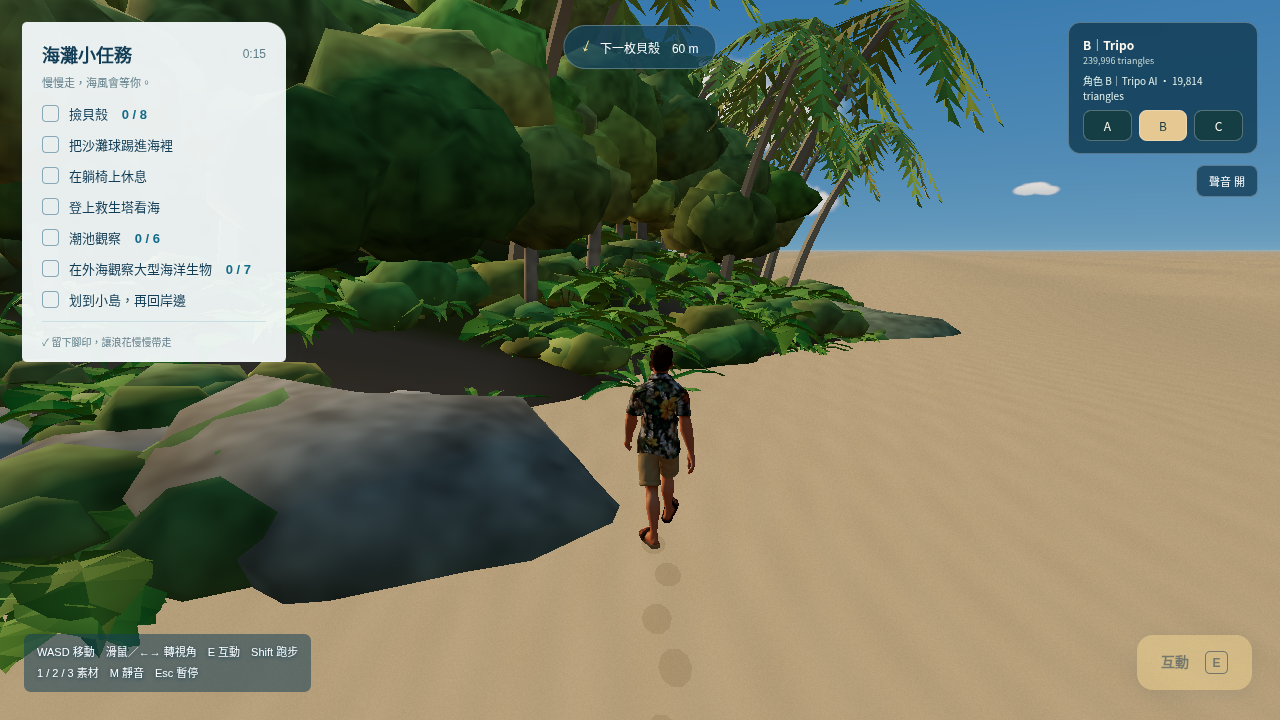
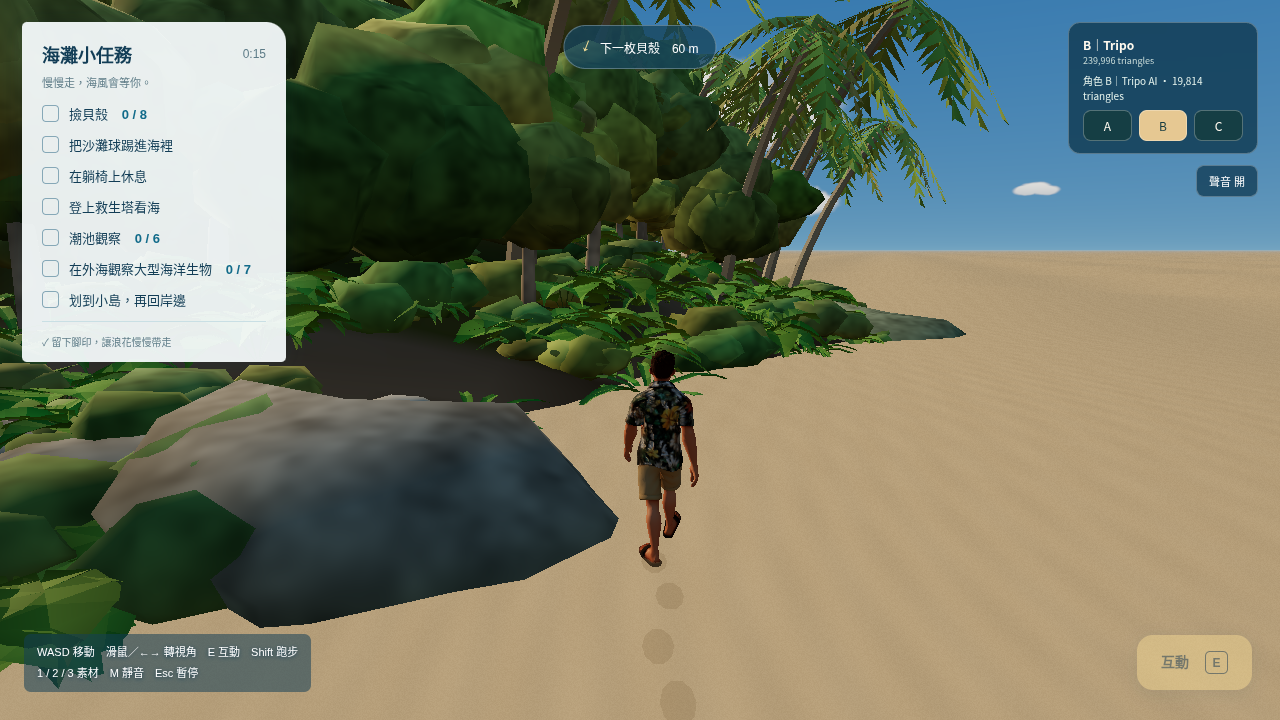
鏡頭跑步時往前看、瞬移直接切；跳躍落地揚沙（水邊改水花）加膝蓋緩衝；踢球揚沙、球被踢扁再彈回；任務數字增加或打勾時彈一下；修正乾沙上誤判為水中（涉水漣漪、落地）
Claude-Session: https://claude.ai/code/session_01USRpqyJ3nNu4mbR3gC6di4

diff --git a/src/game/index.js b/src/game/index.js
@@ -1,6 +1,6 @@
 import * as T from 'three';
 import {groundHeight,shore} from '../terrain.js';
-import {sampleWater,surfaceHeight} from '../water.js';
+import {sampleWater,surfaceHeight,swashReach} from '../water.js';
 import {propRoot} from '../props.js';
 import {createObjects,fallbackBoat} from './objects.js';
 import {createBall} from './physics.js';
@@ -22,6 +22,7 @@ export async function createGame({scene,camera,renderer,water,config,explore:e,a
  // The old node was replaced, so transfer its behavior through an explicit adapter.
  const ui=document.createElement('div');ui.id='game';ui.innerHTML=`<section class="quest-book" aria-label="任務清單"><header><h2>海灘小任務</h2><span id="game-clock">0:00</span></header><p class="quest-intro">慢慢走，海風會等你。</p><ul><li data-quest="shells"><i></i><span>撿貝殼 <b id="shell-count">0 / 8</b></span></li><li data-quest="ball"><i></i><span>把沙灘球踢進海裡</span></li><li data-quest="lounger"><i></i><span>在躺椅上休息</span></li><li data-quest="tower"><i></i><span>登上救生塔看海</span></li><li data-quest="tidepool"><i></i><span>潮池觀察 <b id="tidepool-hud">0 / 6</b></span></li><li data-quest="opensea"><i></i><span>在外海觀察大型海洋生物 <b id="lagoon-hud">0 / 7</b></span></li><li data-quest="boat"><i></i><span>划到小島，再回岸邊</span></li></ul><p id="footnote">額外的小紀念：在沙上留下腳印</p></section><div id="navigation"><span id="nav-arrow">↑</span><span id="nav-text"></span></div><div id="game-toast" role="status" aria-live="polite"></div><div id="target-prompt"><kbd>E</kbd><span></span></div><button id="interact" disabled>互動 <kbd>E</kbd></button><div class="game-controls">WASD 移動　滑鼠／←→ 轉視角　E 互動　Shift 跑步<br>1 / 2 / 3 素材　M 靜音　Esc 暫停</div><button id="game-audio" aria-label="切換聲音">聲音 開</button><div id="game-fade"></div><section id="complete" hidden role="dialog" aria-modal="true" aria-labelledby="complete-title"><div><span class="postmark" aria-hidden="true">☀</span><p>海風、浪花，和你的小小足跡</p><h1 id="complete-title">今天的海灘，收集完成。</h1><p>8 枚貝殼 · 6 種潮池生物 · 7 種海洋生物</p><strong id="finish-time"></strong><p id="finish-bonus"></p><button id="replay">再玩一次</button><a href="/">回到首頁</a></div></section>`;document.body.append(ui);
  const objects=createObjects(scene,water.material.uniforms.time,config);
+ let landedAt=-100,landSize=1,wasAirborne=false,airborneSince=0,kickedAt=-100,lastTime=0;
  const plant=[0,1].map(()=>({down:true,still:0,px:NaN,pz:NaN,lx:1e9,lz:1e9}));let plantRig=null,footBase=Infinity;
  const state={shells:0,ball:false,lounger:false,tower:false,tidepool:false,observed:0,opensea:false,spotted:0,boat:false,island:false,footprints:0};
  const pool=createTidePool(scene);
@@ -53,7 +54,8 @@ export async function createGame({scene,camera,renderer,water,config,explore:e,a
  // World-space contacts for the character's IK layer in the current mode.
  function poseIK(){
   if(mode==='walk'&&pickup&&pickup.age>=0)return pickupIK();
-  if(mode==='walk')return e.airborne?null:{ground:groundHeight,spine:{lean:walkLean}};
+  // Landing from a jump: the knees take it (hips dip about 9 cm within 0.07 s, then ease back up).
+  if(mode==='walk'){if(e.airborne)return null;const age=lastTime-landedAt,dip=age<0||age>.6?0:age<.07?age/.07:Math.exp(-(age-.07)*9);return {ground:groundHeight,spine:{lean:walkLean+.12*dip},pelvis:-.09*dip*landSize};}
   if(mode==='tower'&&anchors.lifeguard.ladder?.kind==='stairs')return {ground:towerSurface};
   if(mode==='tower'&&anchors.lifeguard.ladder&&towerT>0&&towerT<towerTotal())return {hands:climb.hands,handWeight:climb.handWeight,feet:climb.feet,footWeight:climb.footWeight,handAim:climb.aim,curl:climb.curl,pelvis:-.3*climb.duck,spine:{lean:climb.lean+.4*climb.duck}};
   if(mode==='boat'&&launch.active)return launch.board<0?{ground:groundHeight,hands:launch.hands,curl:[1,1],spine:{lean:launch.lean},pelvis:-.12*launch.lean/.6}:{hands:launch.hands,feet:launch.feet,curl:[1,1],spine:{lean:launch.lean},pelvis:launch.pelvis,handAim:launch.board>3?row.aim:undefined};
@@ -371,7 +373,9 @@ export async function createGame({scene,camera,renderer,water,config,explore:e,a
  syncAnchors();
  const ball=createBall(objects.ball,()=>e.colliders,()=>{if(!state.ball){state.ball=true;toast('球進海裡了！讓它跟著浪花漂吧。');}},()=>e.sfx('splash'));
  function toast(message){$('#game-toast').textContent=message;toastUntil=time()+3.5;}
- function renderHud(){const signature=`${state.shells},${state.ball},${state.lounger},${state.tower},${state.observed},${state.spotted},${state.boat},${state.footprints>0},${Math.floor(elapsed)}`;if(signature===lastHud)return;lastHud=signature;$('#shell-count').textContent=`${state.shells} / 8`;$('#tidepool-hud').textContent=`${state.observed} / 6`;$('#lagoon-hud').textContent=`${state.spotted} / 7`;for(const key of ['shells','ball','lounger','tower','tidepool','opensea','boat']){const done=key==='shells'?state.shells===8:state[key],li=$(`[data-quest=${key}]`);li.classList.toggle('done',done);li.querySelector('i').textContent=done?'✓':'';li.setAttribute('aria-label',`${li.textContent}，${done?'已完成':'未完成'}`);}$('#game-clock').textContent=formatTime(elapsed);if(state.footprints)$('#footnote').textContent='✓ 留下腳印，讓浪花慢慢帶走';}
+ // A count that went up or a quest just ticked pops (grows past its size and settles), so the change is seen.
+ const hudSeen={};const pop=el=>{el.classList.remove('pop');void el.offsetWidth;el.classList.add('pop');};
+ function renderHud(){const signature=`${state.shells},${state.ball},${state.lounger},${state.tower},${state.observed},${state.spotted},${state.boat},${state.footprints>0},${Math.floor(elapsed)}`;if(signature===lastHud)return;lastHud=signature;$('#shell-count').textContent=`${state.shells} / 8`;$('#tidepool-hud').textContent=`${state.observed} / 6`;$('#lagoon-hud').textContent=`${state.spotted} / 7`;for(const [id,n] of [['shell-count',state.shells],['tidepool-hud',state.observed],['lagoon-hud',state.spotted]]){if(n>(hudSeen[id]??n))pop($('#'+id));hudSeen[id]=n;}for(const key of ['shells','ball','lounger','tower','tidepool','opensea','boat']){const done=key==='shells'?state.shells===8:state[key],li=$(`[data-quest=${key}]`);li.classList.toggle('done',done);li.querySelector('i').textContent=done?'✓':'';if(done&&hudSeen[key]===false)pop(li.querySelector('i'));hudSeen[key]=done;li.setAttribute('aria-label',`${li.textContent}，${done?'已完成':'未完成'}`);}$('#game-clock').textContent=formatTime(elapsed);if(state.footprints)$('#footnote').textContent='✓ 留下腳印，讓浪花慢慢帶走';}
  function formatTime(seconds){return `${Math.floor(seconds/60)}:${String(Math.floor(seconds%60)).padStart(2,'0')}`;}
  function begin(){running=true;document.body.classList.add('game-playing');$('#start').hidden=true;$('#begin').textContent='繼續玩';welcome.querySelector('h1').textContent='海灘小任務';renderHud();}
  // `start` is exported by Explore so the same gesture enables sound and controls.
@@ -434,7 +438,7 @@ export async function createGame({scene,camera,renderer,water,config,explore:e,a
   if(near.kind==='leave'){leave();return;}
   if(near.kind==='opensea'){const c=near.item;if(sea.observe(c.i)){const count=sea.seen.length;state.spotted=count;e.sfx('pickup');toast(count===7?'7 種海洋生物都觀察到了！划回岸邊吧。':`觀察到${c.spec.name}：${c.spec.note}（${count} / 7）`);if(count===7)state.opensea=true;renderHud();}return;}
   if(near.kind==='shell'&&!near.item.collected)startPickup(near.item);
-  if(near.kind==='ball'){ball.kick(e.player);character.trigger('kick');e.sfx('kick');}
+  if(near.kind==='ball'){ball.kick(e.player);character.trigger('kick');e.sfx('kick');kickedAt=lastTime;const b=objects.ball.position,n=Math.hypot(b.x-e.player.x,b.z-e.player.z)||1,dx=(b.x-e.player.x)/n,dz=(b.z-e.player.z)/n,fx=e.player.x+dx*.45,fz=e.player.z+dz*.45;if(groundHeight(fx,fz)>.015)objects.puff(fx,fz,lastTime,.7,dx,dz);}
   if(near.kind==='umbrella')enter('rest');if(near.kind==='lifeguard')enter('tower');if(near.kind==='boat')enter('boat');if(near.kind==='tidepool')enter('tidepool');renderHud();
  }
  addEventListener('keydown',event=>{if(event.code==='KeyE'&&!event.repeat){event.preventDefault();interact();}});$('#interact').onclick=interact;$('#game-audio').onclick=()=>e.mute();
@@ -606,7 +610,12 @@ export async function createGame({scene,camera,renderer,water,config,explore:e,a
   sea.update(t);splash.update(t);wake.update(t);wake.rings(t,water.material.uniforms.wakeRings.value);if(!vessel.visible)wake.ring.visible=false;
   if(e.group!==currentGroup&&!e.busy){currentGroup=e.group;if(mode==='rest')e.player.copy(restPoint());else if(mode==='tower')e.player.copy(anchors.lifeguard.surface.point);}
   document.body.classList.toggle('game-paused',running&&!e.active&&!completed&&mode!=='tidepool');
-  const active=running&&e.active&&!e.busy&&!completed,simDt=active?dt:0;
+  const active=running&&e.active&&!e.busy&&!completed,simDt=active?dt:0;lastTime=t;
+  // A landing after a real jump (over 0.15 s in the air) kicks up sand, or splashes in the water; longer falls more.
+  if(simDt>0&&mode==='walk'){if(e.airborne&&!wasAirborne)airborneSince=t;
+   if(wasAirborne&&!e.airborne&&t-airborneSince>.15){landedAt=t;landSize=Math.min(1.3,.6+(t-airborneSince)*.9);const x=e.player.x,z=e.player.z,level=surfaceHeight(x,z,t);
+    if(z-shore(x)<swashReach(x,t)&&level>groundHeight(x,z)+.03)splash.emit(t,x,level,z,.28*landSize);else objects.puff(x,z,t,landSize);}
+   wasAirborne=e.airborne;}
   if(active)elapsed+=dt;
   const moved=Math.hypot(e.player.x-lastPlayer.x,e.player.z-lastPlayer.z);
   if(running&&!completed)ball.update(simDt,t,e.player,moved>.001&&mode==='walk');
@@ -637,6 +646,8 @@ export async function createGame({scene,camera,renderer,water,config,explore:e,a
      // A foot that shuffles a few centimetres (settling into the stance) does not print again.
      if(Math.hypot(f.x-s.lx,f.z-s.lz)>.15&&groundHeight(f.x,f.z)>.015){s.lx=f.x;s.lz=f.z;objects.footprint(f.x,f.z,yaw,t,true);state.footprints++;}}}}if(e.first&&mode==='walk'){camera.getWorldDirection(screen);camera.position.copy(character.head());camera.lookAt(screen.add(camera.position));}if(!completed&&!e.first)followCamera.enforce(character.head());
   lastPlayer.copy(e.player);objects.update(t);
+  // The kicked ball squashes for a moment and springs back.
+  {const age=t-kickedAt,k=age<0||age>.4?0:Math.sin(Math.min(1,age/.4)*Math.PI)*Math.exp(-age*5);objects.ball.scale.set(1+.12*k,1-.16*k,1+.12*k);}
   destination.visible=mode==='boat';buoy.visible=mode==='boat';const dest=state.island&&state.opensea?dock:island;destination.position.set(dest.x,.6,dest.z);sampleWater(dest.x,dest.z,t,wave);destination.position.y=wave.height+.14;buoy.position.set(dest.x,wave.height+1.4,dest.z);
   near=active?nearTarget():null;const prompt=$('#target-prompt'),button=$('#interact');button.disabled=!near;button.firstChild.textContent=mode==='boat'?(near?.kind==='opensea'?'觀察 ':near?.kind==='skip'?'跳過 ':near?'下船 ':'划行中 '):mode==='tower'?'下塔 ':mode==='rest'?'起身 ':'互動 ';objects.halo.visible=!!near&&mode==='walk';prompt.hidden=!near;
   if(near){const p=near.position;screen.set(p.x,p.y??p.height??groundHeight(p.x,p.z),p.z);if(near.kind==='shell')screen.y=near.item.y;if(near.kind==='shell'&&screen.y<.04){sampleWater(screen.x,screen.z,t,wave);screen.y=Math.max(screen.y,wave.height);}objects.halo.position.set(screen.x,screen.y+.025,screen.z);screen.y+=1.2;screen.project(camera);const onScreen=screen.z<1&&screen.z>-1&&Math.abs(screen.x)<.95&&Math.abs(screen.y)<.95;prompt.hidden=!onScreen;prompt.style.left=`${(screen.x*.5+.5)*innerWidth}px`;prompt.style.top=`${(-screen.y*.5+.5)*innerHeight}px`;prompt.querySelector('span').textContent=near.label;}
@@ -687,6 +698,6 @@ export async function createGame({scene,camera,renderer,water,config,explore:e,a
    }});
   return [...targets,sand].map(t=>({id:t.id,n:t.n,max:+t.max.toFixed(3),worst:t.worst}));
  }
- if(auto){Object.assign(api,{penetration,boardInfo(){return {stern:boat.stern,hull:boat.hull,seat:boatSeat.point.toArray(),floorY:row.floorY,deck:boat.deck?.map(d=>[+d.z.toFixed(2),+d.y.toFixed(2),...d.gun.map(g=>g&&[+g.x.toFixed(2),+g.y.toFixed(2)])]),player:e.player.toArray(),feet:launch.feet.map(f=>f.toArray()),hands:launch.hands.map(h=>h.toArray()),pelvis:launch.pelvis,lean:launch.lean,vessel:vessel.matrixWorld.elements.slice()};},boatInfo(){const b=new T.Box3().setFromObject(boatModel,true);return {draft:boat.draft,mask:boat.mask?boat.mask.geometry.attributes.position.count:0,keelBelowWater:+(vessel.position.y-b.min.y).toFixed(3),gunwaleAboveWater:+(b.max.y-vessel.position.y).toFixed(3)};},ladder(){return anchors.lifeguard.ladder;},climbState(){return {towerT,towerDir,root:climb.root.toArray(),hands:climb.hands.map(h=>h.toArray()),player:e.player.toArray(),total:towerTotal()};},footWorld(i){return character.footWorld(i,new T.Vector3());},handWorld(i){return character.rig.hand[i].getWorldPosition(new T.Vector3());},teleport(x,z){if(mode!=='walk')throw Error('Teleport is only available on foot');e.player.set(x,groundHeight(x,z),z);lastPlayer.copy(e.player);},targets(){return {shells:objects.items.map(s=>({x:s.x,y:s.y,z:s.z,collected:s.collected})),ball:objects.ball.position.toArray(),umbrella:anchors.umbrella.point.toArray(),tidepool:pool.point.toArray(),lagoon:pool.point.toArray(),lifeguard:anchors.lifeguard.point.toArray(),boat:anchors.boat.point.toArray(),dock,island};},step(seconds){let remaining=seconds;while(remaining>1e-6){const dt=Math.min(1/60,remaining);window.__TIME__=time()+dt;water.material.uniforms.time.value=window.__TIME__;e.update(dt);update(dt,window.__TIME__);remaining-=dt;}water.userData.simTime=window.__TIME__;},steer(angle){if(mode!=='boat')throw Error('Not in boat');boatYaw=angle;},view(yaw){e.setView(yaw);},wave(x,z,t){return {...sampleWater(x,z,t,{}),drawn:surfaceHeight(x,z,t)};}});Object.defineProperty(api,'pushBoat',{get(){return pushBoat;},set(v){pushBoat=!!v;}});Object.defineProperty(api,'launch',{get(){return {active:launch.active,board:launch.board,speed:launch.speed,hands:launch.hands.map(h=>h.toArray())};}});Object.defineProperty(api,'vessel',{get(){return {x:vessel.position.x,y:vessel.position.y,z:vessel.position.z,yaw:boatYaw,speed:boatSpeed};}});window.__GAME__=api;}
+ if(auto){Object.assign(api,{penetration,boardInfo(){return {stern:boat.stern,hull:boat.hull,seat:boatSeat.point.toArray(),floorY:row.floorY,deck:boat.deck?.map(d=>[+d.z.toFixed(2),+d.y.toFixed(2),...d.gun.map(g=>g&&[+g.x.toFixed(2),+g.y.toFixed(2)])]),player:e.player.toArray(),feet:launch.feet.map(f=>f.toArray()),hands:launch.hands.map(h=>h.toArray()),pelvis:launch.pelvis,lean:launch.lean,vessel:vessel.matrixWorld.elements.slice()};},boatInfo(){const b=new T.Box3().setFromObject(boatModel,true);return {draft:boat.draft,mask:boat.mask?boat.mask.geometry.attributes.position.count:0,keelBelowWater:+(vessel.position.y-b.min.y).toFixed(3),gunwaleAboveWater:+(b.max.y-vessel.position.y).toFixed(3)};},ladder(){return anchors.lifeguard.ladder;},climbState(){return {towerT,towerDir,root:climb.root.toArray(),hands:climb.hands.map(h=>h.toArray()),player:e.player.toArray(),total:towerTotal()};},footWorld(i){return character.footWorld(i,new T.Vector3());},handWorld(i){return character.rig.hand[i].getWorldPosition(new T.Vector3());},teleport(x,z){if(mode!=='walk')throw Error('Teleport is only available on foot');e.player.set(x,groundHeight(x,z),z);lastPlayer.copy(e.player);},targets(){return {shells:objects.items.map(s=>({x:s.x,y:s.y,z:s.z,collected:s.collected})),ball:objects.ball.position.toArray(),umbrella:anchors.umbrella.point.toArray(),tidepool:pool.point.toArray(),lagoon:pool.point.toArray(),lifeguard:anchors.lifeguard.point.toArray(),boat:anchors.boat.point.toArray(),dock,island};},step(seconds){let remaining=seconds;while(remaining>1e-6){const dt=Math.min(1/60,remaining);window.__TIME__=time()+dt;water.material.uniforms.time.value=window.__TIME__;e.update(dt);update(dt,window.__TIME__);remaining-=dt;}water.userData.simTime=window.__TIME__;},steer(angle){if(mode!=='boat')throw Error('Not in boat');boatYaw=angle;},view(yaw){e.setView(yaw);},wave(x,z,t){return {...sampleWater(x,z,t,{}),drawn:surfaceHeight(x,z,t)};}});Object.defineProperty(api,'feel',{get(){return {landedAt,landSize,kickedAt};}});Object.defineProperty(api,'pushBoat',{get(){return pushBoat;},set(v){pushBoat=!!v;}});Object.defineProperty(api,'launch',{get(){return {active:launch.active,board:launch.board,speed:launch.speed,hands:launch.hands.map(h=>h.toArray())};}});Object.defineProperty(api,'vessel',{get(){return {x:vessel.position.x,y:vessel.position.y,z:vessel.position.z,yaw:boatYaw,speed:boatSpeed};}});window.__GAME__=api;}
  update(0,time());return api;
 }

diff --git a/src/game/objects.js b/src/game/objects.js
@@ -23,6 +23,13 @@ export function createObjects(scene, timeUniform, config) {
  });
  const sparkle=new T.InstancedMesh(new T.OctahedronGeometry(.065),new T.MeshBasicMaterial({color:0xfff0b2}),48);sparkle.frustumCulled=false;root.add(sparkle);
  const bursts=Array.from({length:4},()=>({x:0,y:0,z:0,born:-100}));let burstIndex=0;
+ // Sand kicked up by a landing or a kick: grains thrown out low that fall back, and a faint dust puff that spreads
+ // and thins. A pure function of the time since each puff (4 at once, 14 grains each).
+ const grains=new T.InstancedMesh(new T.IcosahedronGeometry(1,0),new T.MeshStandardMaterial({color:0xcdb48a,roughness:1}),56);grains.frustumCulled=false;root.add(grains);
+ const dustCanvas=document.createElement('canvas');dustCanvas.width=dustCanvas.height=64;{const g=dustCanvas.getContext('2d'),r=g.createRadialGradient(32,32,0,32,32,32);r.addColorStop(0,'rgba(255,255,255,1)');r.addColorStop(.5,'rgba(255,255,255,.45)');r.addColorStop(1,'rgba(255,255,255,0)');g.fillStyle=r;g.fillRect(0,0,64,64);}
+ const dustMap=new T.CanvasTexture(dustCanvas);
+ const dust=Array.from({length:4},()=>{const m=new T.Sprite(new T.SpriteMaterial({map:dustMap,color:0xe9dcbc,transparent:true,depthWrite:false,opacity:0}));m.visible=false;root.add(m);return m;});
+ const puffs=Array.from({length:4},()=>({x:0,y:0,z:0,born:-100,size:1,dx:0,dz:0}));let puffIndex=0;
  const footprintGeo=new T.CircleGeometry(1,10);footprintGeo.rotateX(-Math.PI/2);
  const footprintMat=new T.ShaderMaterial({transparent:true,depthWrite:false,polygonOffset:true,polygonOffsetFactor:-2,uniforms:{time:timeUniform},vertexShader:`attribute float born;attribute float life;uniform float time;varying float alpha;void main(){float age=time-born;alpha=age<0.?0.:max(0.,1.-age/life)*.3;gl_Position=projectionMatrix*modelViewMatrix*instanceMatrix*vec4(position,1.);}`,fragmentShader:`varying float alpha;void main(){gl_FragColor=vec4(.25,.18,.10,alpha);}`});
  const footprints=new T.InstancedMesh(footprintGeo,footprintMat,128);footprints.frustumCulled=false;root.add(footprints);
@@ -35,6 +42,8 @@ export function createObjects(scene, timeUniform, config) {
  const panelIndices=Array.from({length:6},()=>[]);for(const g of ball.geometry.groups)for(let j=0;j<3;j++)panelIndices[g.materialIndex].push(index.getX(g.start+j));ball.geometry.clearGroups();const all=[];for(let i=0;i<6;i++){ball.geometry.addGroup(all.length,panelIndices[i].length,i);all.push(...panelIndices[i]);}ball.geometry.setIndex(all);
  ball.castShadow=true;root.add(ball);
  function burst(x,y,z,t){const b=bursts[burstIndex++%4];b.x=x;b.y=y;b.z=z;b.born=t;}
+ // size: about 1 for a landing; (dx, dz): grains lean that way (a kick), else they fan out evenly.
+ function puff(x,z,t,size=1,dx=0,dz=0){const p=puffs[puffIndex++%4];Object.assign(p,{x,y:groundHeight(x,z),z,born:t,size,dx,dz});}
  function footprint(x,z,yaw,t,exact=false){const i=footIndex++%128,side=exact?0:footIndex%2?-.13:.13;feet[i].x=x+Math.cos(yaw)*side;feet[i].z=z-Math.sin(yaw)*side;dummy.position.set(feet[i].x,groundHeight(feet[i].x,feet[i].z)+.026,feet[i].z);dummy.rotation.set(0,yaw,0);dummy.scale.set(.105,1,.22);dummy.updateMatrix();footprints.setMatrixAt(i,dummy.matrix);born[i]=t;life[i]=20;footprintGeo.attributes.born.needsUpdate=true;footprintGeo.attributes.life.needsUpdate=true;footprints.instanceMatrix.needsUpdate=true;}
  function update(t){
   for(let i=0;i<8;i++){const item=items[i],age=t-item.born,picking=item.collected&&age>=0&&age<.65;dummy.position.set(item.x,item.y+(picking?Math.sin(age/.65*Math.PI)*.8:0),item.z);dummy.rotation.set(0,i*1.7,0);dummy.scale.setScalar(item.collected?(picking?1-age/.65:0):1);
@@ -43,10 +52,16 @@ export function createObjects(scene, timeUniform, config) {
    dummy.updateMatrix();(i%2?stars:shells).setMatrixAt(Math.floor(i/2),dummy.matrix);dummy.position.y=item.y+.025;if(item.y<.04){sampleWater(item.x,item.z,t,wave);dummy.position.y=Math.max(dummy.position.y,wave.height+.04);}dummy.rotation.set(-Math.PI/2,0,0);dummy.scale.setScalar(item.collected?0:1);dummy.updateMatrix();glow.setMatrixAt(i,dummy.matrix);}
   shells.instanceMatrix.needsUpdate=stars.instanceMatrix.needsUpdate=glow.instanceMatrix.needsUpdate=true;
   for(let i=0;i<48;i++){const b=bursts[Math.floor(i/12)],age=t-b.born,a=i*2.399;dummy.position.set(b.x+Math.cos(a)*age,b.y+age*2.3-age*age,b.z+Math.sin(a)*age);dummy.rotation.set(age,age,age);dummy.scale.setScalar(age>=0&&age<.9?1-age/.9:0);dummy.updateMatrix();sparkle.setMatrixAt(i,dummy.matrix);}sparkle.instanceMatrix.needsUpdate=true;
+  for(let k=0;k<4;k++){const p=puffs[k],age=t-p.born,live=age>=0&&age<.9;
+   for(let i=0;i<14;i++){const a=i*2.399+k,h=((i*.618+k*.37)%1),sp=p.size*(.9+1.4*h),up=p.size*(1.1+1.3*((i*.41+k*.13)%1)),tt=Math.min(age,.9);
+    const y=Math.max(p.y+.02,p.y+.02+up*tt-4.9*tt*tt);dummy.position.set(p.x+(Math.cos(a)*sp+p.dx*2.2*p.size)*tt,y,p.z+(Math.sin(a)*sp+p.dz*2.2*p.size)*tt);dummy.rotation.set(a,a*2,0);
+    dummy.scale.setScalar(live?(.014+.016*h)*Math.sqrt(p.size)*(1-age/.9):0);dummy.updateMatrix();grains.setMatrixAt(k*14+i,dummy.matrix);}
+   const d=dust[k],k2=Math.min(1,Math.max(0,age)/.7);d.visible=age>=0&&age<.7;const w=p.size*(.35+.9*k2);d.position.set(p.x+p.dx*.4*k2,p.y+w*.3,p.z+p.dz*.4*k2);d.scale.set(w,w*.6,1);d.material.opacity=.42*(1-k2)*(1-k2);}
+  grains.instanceMatrix.needsUpdate=true;
   let washed=false;for(let i=0;i<128;i++){if(t-born[i]<life[i]&&feet[i].z-shore(feet[i].x)<swashReach(feet[i].x,t)){life[i]=Math.min(life[i],Math.max(.15,t-born[i])+.55);washed=true;}}if(washed)footprintGeo.attributes.life.needsUpdate=true;
  }
- function reset(){for(const item of items){item.collected=false;item.born=-100;item.held=null;}for(const b of bursts)b.born=-100;born.fill(-100);life.fill(20);footprintGeo.attributes.born.needsUpdate=footprintGeo.attributes.life.needsUpdate=true;footIndex=0;}
- return {root,items,ball,halo,burst,footprint,update,reset};
+ function reset(){for(const item of items){item.collected=false;item.born=-100;item.held=null;}for(const b of bursts)b.born=-100;for(const p of puffs)p.born=-100;born.fill(-100);life.fill(20);footprintGeo.attributes.born.needsUpdate=footprintGeo.attributes.life.needsUpdate=true;footIndex=0;}
+ return {root,items,ball,halo,burst,puff,footprint,update,reset};
 }
 
 export function fallbackBoat(){

diff --git a/src/game/camera.js b/src/game/camera.js
@@ -8,7 +8,7 @@ export function createGameCamera(camera,propRoot){
  const ray=new T.Raycaster(),direction=new T.Vector3(),right=new T.Vector3(),up=new T.Vector3(),origin=new T.Vector3(),hitPoint=new T.Vector3(),goal=new T.Vector3(),head=new T.Vector3(),delta=new T.Vector3();
  const geometryCache=new WeakMap();ray.firstHitOnly=true;
  const collisionMaterial=new T.MeshBasicMaterial({side:T.DoubleSide});
- let entries=[],boom=6.2,minObserved=Infinity,lastDistance=6.2;
+ let entries=[],boom=6.2,minObserved=Infinity,lastDistance=6.2;const lead=new T.Vector3(),leadGoal=new T.Vector3(),last=new T.Vector3(NaN,0,0);
  function refresh(){propRoot.updateMatrixWorld(true);entries=propRoot.children.filter(o=>o.children.length).map(source=>{const root=new T.Group();source.traverse(o=>{if(o.isMesh){let geometry=geometryCache.get(o.geometry);if(!geometry){geometry=o.geometry.clone();geometry.clearGroups();geometry.boundsTree=new MeshBVH(geometry);geometryCache.set(o.geometry,geometry);}const mesh=new T.Mesh(geometry,collisionMaterial);mesh.raycast=acceleratedRaycast;mesh.matrixAutoUpdate=false;mesh.matrix.copy(o.matrixWorld);root.add(mesh);}});root.updateMatrixWorld(true);return {source,root,box:new T.Box3().setFromObject(source)};});}
  function clearance(start,dir,length){let distance=length;right.crossVectors(dir,new T.Vector3(0,1,0)).normalize();up.crossVectors(right,dir).normalize();
   for(const [x,y] of [[0,0],[.18,0],[-.18,0],[0,.18],[0,-.18]]){origin.copy(start).addScaledVector(right,x).addScaledVector(up,y);ray.set(origin,dir);ray.far=distance+.2;
@@ -17,14 +17,21 @@ export function createGameCamera(camera,propRoot){
   for(let d=.3;d<distance;d+=.3){hitPoint.copy(start).addScaledVector(dir,d);if(hitPoint.y<landHeight(hitPoint.x,hitPoint.z)+.35){distance=d;break;}}
   return distance;
  }
- function update(dt,player,yaw,pitch){head.copy(player).add(new T.Vector3(0,1.6,0));direction.set(Math.sin(yaw)*Math.cos(pitch),.073+Math.sin(pitch),Math.cos(yaw)*Math.cos(pitch)).normalize();let desired=clearance(head,direction,6.2);
+ function update(dt,player,yaw,pitch){
+  // Look-ahead: the orbit centre leads the walker in the direction of travel (about 0.35 m walking, 0.9 m running),
+  // eased over about 0.3 s so it does not whip. A jump of over 3 m in one frame (a teleport, a cut between modes) is
+  // a hard cut: no lead, and the camera goes straight to its spot instead of sliding across the beach.
+  const cut=last.x===last.x&&player.distanceTo(last)>3;
+  if(dt>0){if(cut||last.x!==last.x)leadGoal.set(0,0,0);else{leadGoal.set(player.x-last.x,0,player.z-last.z).divideScalar(dt);const speed=leadGoal.length();if(speed>.2)leadGoal.multiplyScalar(Math.min(.9,speed*.2)/speed);else leadGoal.set(0,0,0);}
+   if(cut)lead.set(0,0,0);else lead.lerp(leadGoal,1-Math.exp(-dt/.3));last.copy(player);}
+  head.copy(player).add(lead).y+=1.6;direction.set(Math.sin(yaw)*Math.cos(pitch),.073+Math.sin(pitch),Math.cos(yaw)*Math.cos(pitch)).normalize();let desired=clearance(head,direction,6.2);
   if(desired<MIN_BOOM){
    // Lift the boom over the head rather than collapsing into it. Probe several
    // elevations so a chair back/rail does not trap the camera inside the body.
    for(const elevation of [.6,.9,1.2,1.48]){direction.set(Math.sin(yaw)*Math.cos(elevation),Math.sin(elevation),Math.cos(yaw)*Math.cos(elevation));desired=clearance(head,direction,6.2);if(desired>=MIN_BOOM+.15)break;}
   }
   desired=Math.max(MIN_BOOM,desired);boom=T.MathUtils.damp(boom,desired,desired<boom?24:3.2,dt);boom=Math.max(MIN_BOOM,Math.min(boom,desired));goal.copy(head).addScaledVector(direction,boom);
-  camera.position.lerp(goal,1-Math.exp(-12*dt));
+  if(cut){boom=desired;goal.copy(head).addScaledVector(direction,boom);camera.position.copy(goal);}else camera.position.lerp(goal,1-Math.exp(-12*dt));
   // Recheck the interpolated orbit: a smoothed endpoint can otherwise cut
   // through a wall while turning, even when the new boom itself is clear.
   delta.subVectors(camera.position,head);const length=delta.length();delta.normalize();const safe=clearance(head,delta,length);

diff --git a/src/game.css b/src/game.css
@@ -12,7 +12,9 @@
 #target-prompt{position:absolute;transform:translate(-50%,-100%);display:flex;align-items:center;gap:9px;white-space:nowrap;padding:8px 12px;border-radius:8px;background:#123d56ed;color:white;border:1px solid #ffffff66;font-size:13px}kbd{font-family:inherit;display:inline-grid;place-items:center;min-width:23px;height:23px;border:1px solid currentColor;border-radius:5px;font-size:12px}#interact{position:absolute;right:28px;bottom:30px;border-radius:16px;background:var(--sun);color:var(--ink);padding:16px 24px;font-weight:700!important;box-shadow:0 4px 18px #123d5630}#interact:disabled{opacity:.4;cursor:default}#interact kbd{margin-left:12px}.game-controls{position:absolute;bottom:28px;left:24px;font-size:11px;line-height:1.9;color:#fff;text-shadow:0 1px 4px #123d56;background:#123d5688;padding:8px 13px;border-radius:7px}
 #game-fade{position:absolute;inset:0;background:#f6fcfd;opacity:0;pointer-events:none}#complete{position:absolute;inset:0;display:grid;place-items:center;background:#16465d77;pointer-events:auto;padding:20px}#complete>div{max-width:540px;padding:38px 42px;text-align:center;background:var(--paper);border-radius:5px 30px 5px 5px}#complete h1{font-size:32px;line-height:1.45;margin:20px 0}#complete p{font-size:13px;color:var(--quiet)}#complete strong{display:block;font-size:20px;margin:24px 0 12px}#complete button{display:block;width:100%;background:var(--sea);color:white;padding:15px;border-radius:9px;margin:24px 0 18px;font-weight:700}#complete a{color:var(--sea);font-size:13px}.game-complete .quest-book,.game-complete #interact,.game-complete .game-controls,.game-complete #explore .hud{display:none!important}
 @media(max-width:700px){.game-mode #start{padding:0;justify-items:center}.game-mode .welcome{width:calc(100vw - 40px);padding:26px;max-width:420px}.game-mode .welcome h1{font-size:34px}.postmark{font-size:40px;margin-bottom:18px}.quest-book{top:12px;left:12px;width:211px;padding:13px}.quest-book h2{font-size:16px}.quest-book li{font-size:11px;margin:10px 0;gap:8px}.quest-intro{font-size:10px;margin-bottom:11px}#footnote{font-size:9px;padding-top:9px}.game-mode #explore .hud{top:12px;right:12px;width:137px;padding:9px}.game-mode #stats{display:none}.game-mode .hud strong{font-size:10px}.game-mode #explore .hud button{padding:5px 8px}#navigation{top:270px;max-width:calc(100vw - 24px);font-size:11px;padding:7px 12px}#interact{right:20px;bottom:94px;padding:19px 23px;border-radius:50px}#interact kbd{display:none}.game-playing #game .game-controls{display:none}#target-prompt{font-size:11px;max-width:90vw}#game-toast{bottom:235px;width:max-content;max-width:90%;font-size:12px;padding:10px 14px}.game-mode #stick{bottom:90px;left:22px}.game-mode #look{top:305px;bottom:175px;width:48%}.game-mode #complete>div{padding:28px 24px}.game-mode #complete h1{font-size:27px}}
-@media(prefers-reduced-motion:reduce){#game-toast{transition:none}}
+/* A count going up or a quest ticking off pops: past its size, then settles (eased with overshoot). */
+.quest-book .pop{display:inline-grid;animation:quest-pop .38s cubic-bezier(.34,1.56,.64,1)}@keyframes quest-pop{0%{transform:scale(1)}35%{transform:scale(1.35)}100%{transform:scale(1)}}
+@media(prefers-reduced-motion:reduce){#game-toast{transition:none}.quest-book .pop{animation:none}}
 #game-audio{display:none;position:absolute;top:128px;right:22px;background:#123d56c9;border:1px solid #ffffff44!important;border-radius:8px;color:white;padding:7px 12px;font-size:11px!important}.game-playing #game-audio{display:block}.game-complete #game-audio{display:none}@media(max-width:700px){#game-audio{top:92px;right:12px;padding:6px 10px}}
 .game-mode button{-webkit-tap-highlight-color:transparent}.game-paused #game{visibility:hidden}.game-paused #explore .hud{display:none}
 

diff --git a/src/explore.js b/src/explore.js
@@ -1,6 +1,6 @@
 import * as T from 'three';
-import { groundHeight } from './terrain.js';
-import { surfaceHeight, WADE_RINGS } from './water.js';
+import { groundHeight, shore } from './terrain.js';
+import { surfaceHeight, swashReach, WADE_RINGS } from './water.js';
 import { landHeight, islandHeight, shoreClear } from './coast.js';
 import { loadProps, propRoot } from './props.js';
 import './explore.css';
@@ -130,7 +130,7 @@ export function createExplore({ scene, camera, renderer, config, results, group,
       let nearest=null,best=4;for(const c of colliders){const d=Math.hypot(Math.max(c.box.min.x-player.x,0,player.x-c.box.max.x),Math.max(c.box.min.z-player.z,0,player.z-c.box.max.z));if(d<best){best=d;nearest=c;}}
       if(nearest!==lastPoi||group!==lastPoiGroup){lastPoi=nearest;lastPoiGroup=group;poi.textContent=nearest?`${nearest.id} · ${labels[group]}${group==='A'?' · code-generated':` · ${nearest.slot.paths[group].split('/').at(-1)}`}`:'';poi.hidden=!nearest;}
       waterMesh??=scene.getObjectByName('lagoon-water');
-      if(waterMesh?.material.uniforms.wadeRings){const t=waterMesh.material.uniforms.time.value,deep=surfaceHeight(player.x,player.z,t)-groundHeight(player.x,player.z);
+      if(waterMesh?.material.uniforms.wadeRings){const t=waterMesh.material.uniforms.time.value,deep=player.z-shore(player.x)<swashReach(player.x,t)?surfaceHeight(player.x,player.z,t)-groundHeight(player.x,player.z):0;
         if(deep>.03&&dt>0&&(splashTime-=dt)<=0){const pace=Math.hypot(moveDir.x,moveDir.z)*movementSpeed,side=wadeFoot++%2?.11:-.11,c=Math.cos(avatar.rotation.y),sn=Math.sin(avatar.rotation.y);
           wade[wadeNext++%wade.length].set(player.x+c*side,player.z-sn*side,t,Math.min(1,deep*5)*(pace>.2?.55+.2*Math.min(pace,2.5):.3));splashTime=pace>.2?.3:1.1;}
         for(const r of wade)if(t-r.z>2.4||r.z>t+1e-6)r.w=0;waterMesh.material.uniforms.wadeRings.value.forEach((u,i)=>u.copy(wade[i]));}

diff --git a/CLAUDE.md b/CLAUDE.md
@@ -141,6 +141,10 @@ There is no lint or unit-test setup. Verification means running the Playwright s
 - **Game boat in the water.** The clone floats with a draft (keel a quarter of the hull height, 12–25 cm, under the water line; height and tilt fit the water at bow, stern and both sides, since near the shore a hull levelled at its centre had water 15 cm over its inside). The heights come from `surfaceHeight()` in `src/water.js`, the water as drawn: offshore the water mesh rows are 10–16 m apart, so the flat triangles stray 20–30 cm from the exact field (`sampleWater`), and every ten seconds or so a crest covered the whole inside of a hull that followed the exact field. A depth-only cap over the hull's inside (20 cm above the water line, `renderOrder` 1, water 2) keeps the opaque water plane from showing inside the hull; the water stays at least 8 cm under it along the whole route. The hull's long axis comes from the vertex spread (C's oars skewed the box) and the narrower end is the bow (B and C ran transom first before); the rower takes a thwart clear of the floor in the aft half, so the legs have room before the bow narrows. Its materials are double-sided (C's single-skin hull showed the sea from inside).
 - **Bloom guard.** `src/main.js` runs a pass before bloom that turns NaN/Inf pixels to black and caps values at 1e4; otherwise one bad pixel (seen near A's palm_pair in game mode) spreads over the whole frame and the verifier sees an "empty" frame. Normal pixels are unchanged (A stills match to 1 level).
 - **Collision.** The game camera uses BVH (`three-mesh-bvh`) copies of the real prop triangles. The player (`src/explore.js`) is blocked by prop geometry 0.12–1.85 m above the sand, rasterised into 0.2 m cells (body radius 0.26). Ball, boat and camera-probe collision still use the whole-prop AABBs in `colliders`.
+- **Game camera and feedback** (since 2026-10-22; project skills `camera-systems` and `game-feel` in `.claude/skills/`, from awesome-gamedev-agent-skills, Apache-2.0).
+  - `src/game/camera.js`: the orbit centre leads the walker in the direction of travel (0.2 s of travel, at most 0.9 m: about 0.35 m walking, 0.9 m running), eased over about 0.3 s. A jump of over 3 m between frames (a teleport, a cut between modes) is a hard cut: no lead, the camera goes straight to its spot.
+  - Landing from a jump (over 0.15 s in the air): sand kicked up (`objects.puff()`: 14 grains thrown out and falling back, a soft dust sprite; a pure function of the time since it) or, where the swash reaches, a splash; the hips dip about 9 cm within 0.07 s and ease back (`poseIK()` pelvis). A kick throws sand from in front of the foot towards the ball, and the ball squashes for 0.4 s. A count going up or a quest ticking off pops in the quest book (CSS, off with reduced motion). With `?auto=1`, `__GAME__.feel` reports `landedAt`, `landSize`, `kickedAt`.
+  - Gotcha: the water mesh (and `surfaceHeight()`) runs up over the dry beach, where the shader discards it beyond the swash front. To ask "is there water here", check `z-shore(x)<swashReach(x,t)` first.
 - **Gait and footprints.** Walking downhill stays ground-snapped (`airborne` means a real jump). While moving, locomotion wins over one-shot poses. B/C clips are time-scaled to the measured clip speed (cap 5×). A's procedural gait matches its swing amplitude to speed. Footprints are stamped where a foot really comes down (`src/game/index.js`, since 2026-10-22): it has stopped moving across the sand (0.08 s under 0.3 m/s) near the rig's lowest foot height, and must lift (8 cm higher or over 0.8 m/s) before it prints again; a foot shuffling under 15 cm does not print twice. So stops and settling steps print under the feet. (The old code read a `character.plants` flag that never existed and printed every 0.55 m beside the body's centre.)
 
 ## Conventions and gotchas

diff --git a/NOTES.md b/NOTES.md
@@ -294,3 +294,4 @@ Open **http://localhost:5191/game.html** (also linked as **遊戲模式** on the
 - **走到岬角近看、推船可以往回拉（2026-10-22）**：走路範圍原本到 x 35 為止，右側岬角（近島）走不到。現在沙灘一路走到 x 100，可以走到岬角的林緣，站在岩塊、大葉植物和椰子樹旁邊；島坡從沙裡升起超過 15 cm 的地方、椰子樹幹與岩塊會擋人，所以進不了林子。鏡頭碰撞也把島坡算進去。順帶修正：水邊岩塊原本在島外框外面也會取樣（那裡高度固定 −0.5），有的埋在海灘沙底下還會擋人，有的散在外海浮在水上；現在只放在島的範圍內、且不放在被沙蓋住的地方（地被植物、椰子樹同）。推船時原本只能按 W 往前推，船撞到躺椅或洋傘就卡住；現在按住 S 會倒退著把船往回拉（約 0.9 m/s，腳步動畫倒著播），拉的同時按 A/D 可轉向，提示改成「按住 W 把船推進水深處 · S 往回拉」。`verify-game` 加了往回拉與走到岬角兩項檢查。
 - **林緣碰撞、淺水透明與涉水漣漪（2026-10-22）**：林緣原本只有椰子樹幹和岩塊用圓形近似擋人，灌木和大葉植物會被穿過去。現在把走得到範圍內的植被實例（灌木、地被植物、岩塊、樹幹）用實際三角形畫進跟道具同一張 0.2 m 碰撞格，0.12–1.85 m 高的部分會擋人。水面原本完全不透明，淺水下的沙是 shader 算出來的，腳一進水就看不見；現在水面改成半透明（premultiplied alpha），約 1.6 m 深以內透出真正的沙地與泡在水裡的腳、球、船身，帶水色，最多透 85%；更深維持不透明。原本涉水時每 0.22 秒在身體中心放一圈固定在 y=0.09 的白色細環，看起來很假；改成兩腳輪流在水面 shader 產生約 35 cm 波長的細小漣漪，加一圈破碎的泡沫，兩秒內消失（`wadeRings`，只改著色）。三組共用。
 - **腳印位置（2026-10-22）**：原本程式檢查 `character.plants` 決定用動畫的踩地時間點蓋腳印，但這個屬性從來不存在，所以一直走備用方案：每走 0.55 m 在身體中心左右 13 cm 交替蓋一個，跟實際的腳對不上，停下來時最後一隻腳的腳印落後約 0.8 m（B 組停步時還會在 0.13 秒內亂蓋三個）。現在依腳的實際位置判斷：腳在沙上停住（0.3 m/s 以下持續 0.08 秒）且接近這組角色腳的最低高度才蓋，抬起 8 cm 以上或速度超過 0.8 m/s 才能再蓋下一個，移動不到 15 cm 的小挪步不重複蓋。三組停下來時最後兩個腳印都在腳底下（差 1 cm 內）。
+- **鏡頭往前看、瞬移直接切、落地與踢球回饋（2026-10-22）**：參考 `camera-systems`、`game-feel` 兩個 skill。跑步時鏡頭的環繞中心往前進方向超前（走路約 0.35 m、跑步 0.9 m，約 0.3 秒慢慢移過去），看得到前面；一格內移動超過 3 m（傳送、切換模式）時鏡頭直接切到定位，不從遠處滑過來。跳躍落地揚起沙粒和淡淡沙塵（在浪打得到的地方改成水花），膝蓋緩衝讓臀部下沉約 9 cm 再回來；踢球時腳前揚沙、球被踢扁 0.4 秒再彈回；任務清單的數字增加或打勾時彈一下（減少動態設定下關閉）。順帶修正：水面網格延伸到乾沙灘上（shader 在浪打不到的地方丟掉），所以在乾沙上量到的水面高度比地面高，涉水漣漪和落地判斷會誤以為在水裡；改成先檢查浪有沒有打到。
